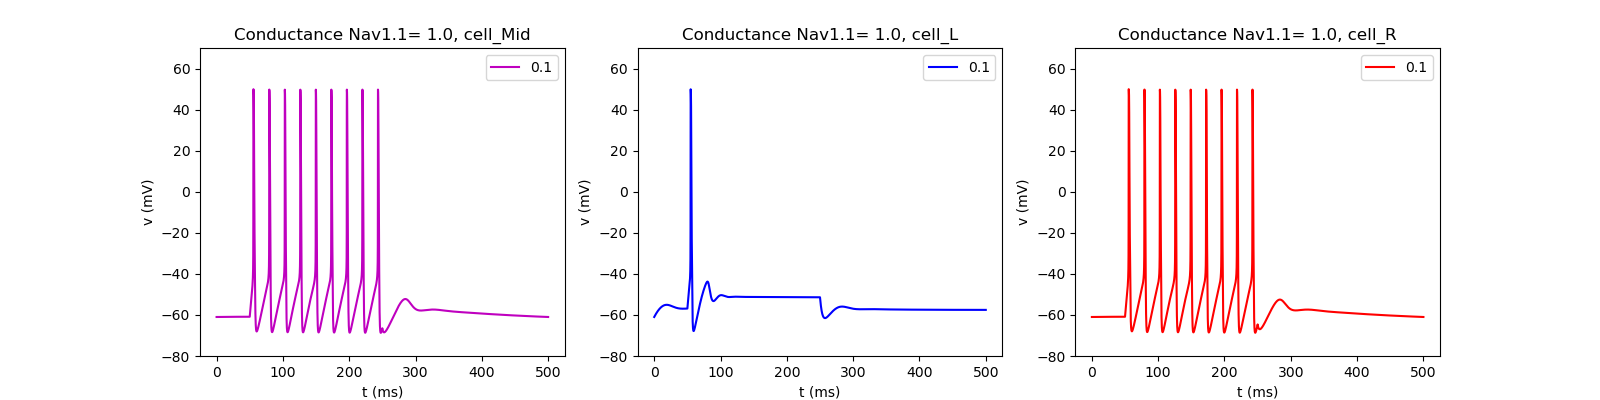
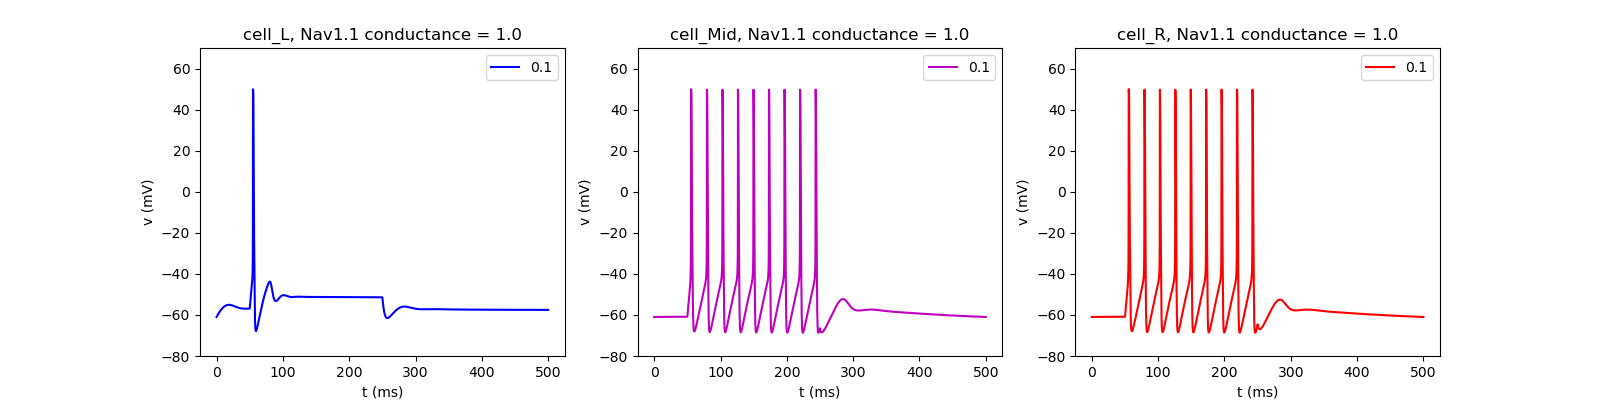
reordered subplots

diff --git a/ion_channel_models.py b/ion_channel_models.py
@@ -5,7 +5,7 @@ from neuron import h
 from neuron.units import ms, mV
 import matplotlib.pyplot as plt
 
-models = ['cell_Mid', 'cell_L', 'cell_R']
+models = ['cell_L', 'cell_Mid', 'cell_R']
 fig = plt.figure(figsize=(16,4))
 
 a = 1                                           # number of rows
@@ -94,20 +94,20 @@ for model in models:
 
     # PLOT RESULTS
     mylist1 = [1.0] #mylist1 = [1.0, 2.0, 2.5, 5.0] # conductance values 
-    fname = "models_" + str(mylist1)
+    fname = "models_" + str(len(models)) + "_" + str(mylist1)
 
     for soma(0.5).ch_Scn1a_md264834.gNav11bar in mylist1:
         cond = soma(0.5).ch_Scn1a_md264834.gNav11bar
         
         plt.subplot(a, b, c)
         plt.rcParams.update({'font.size': 10}) 
-        plt.title('Conductance Nav1.1= {}'.format(cond) + ', ' + model) 
+        plt.title(model + ', ' + 'Nav1.1 conductance = {}'.format(cond))
 
         amps = [0.1] #[0.01, 0.05, 0.1]
-        if model == 'cell_Mid': 
-            colors = ['m']
-        elif model == 'cell_L':
+        if model == 'cell_L': 
             colors = ['b']
+        elif model == 'cell_Mid':
+            colors = ['m']
         else: colors = ['r']
 
         for amp, color in zip(amps, colors):
@@ -123,3 +123,4 @@ for model in models:
  
 plt.savefig('FIGSmodel/%s.png' % (fname))
 plt.show()
+print(fname)
